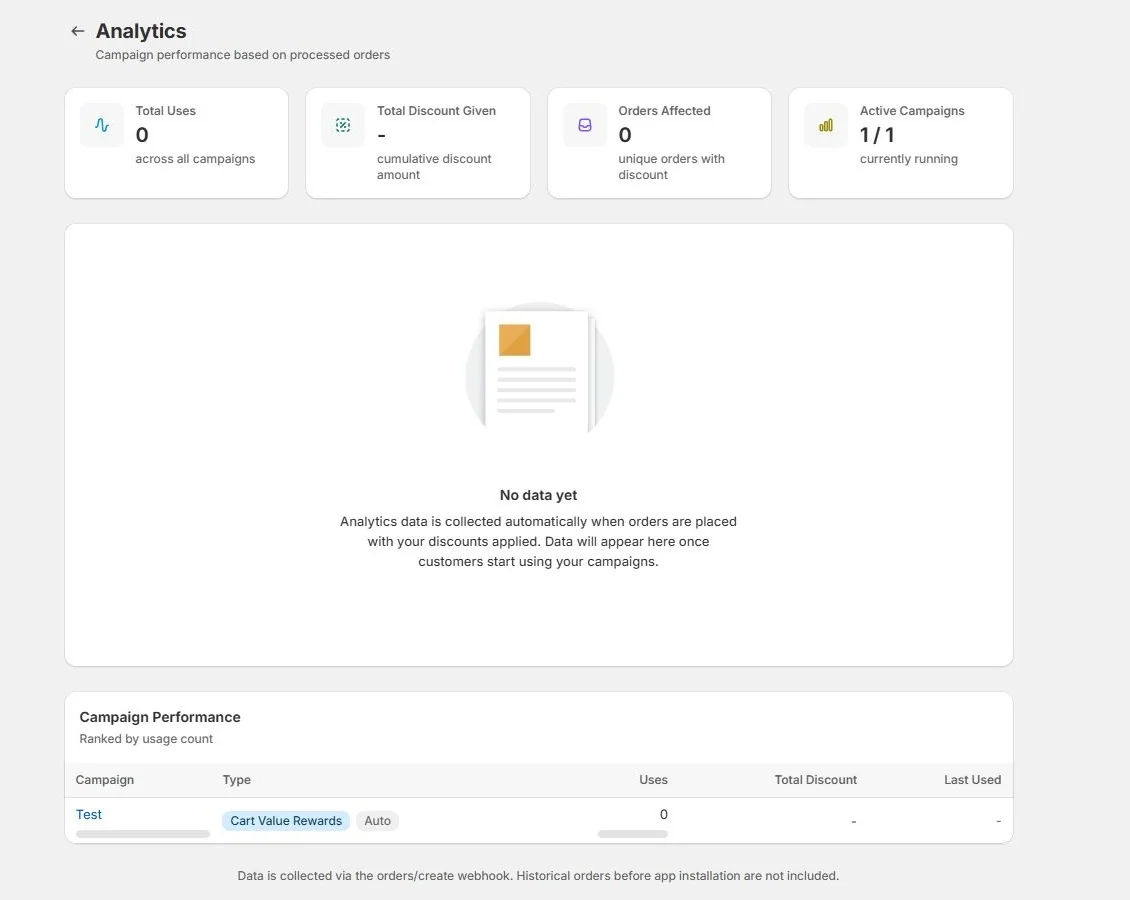
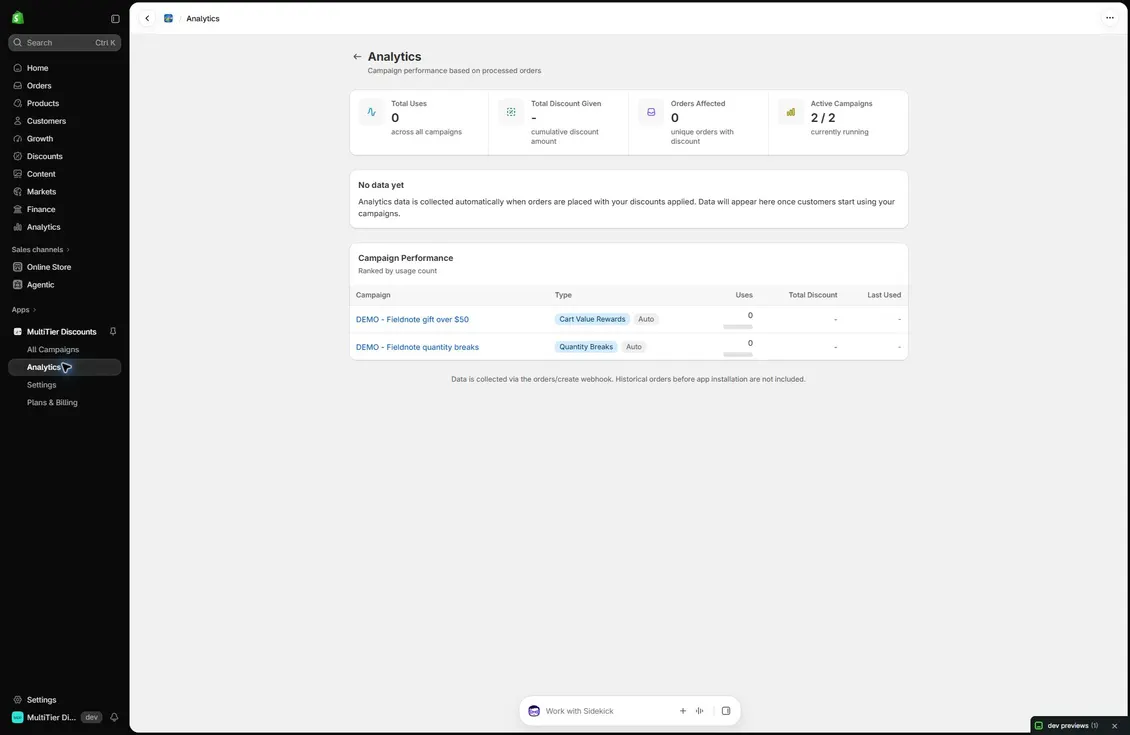
Publish MTD video guide and refreshed product evidence

diff --git a/app/content/site.ts b/app/content/site.ts
@@ -21,6 +21,16 @@ export const siteConfig = {
   ],
 } as const;
 
+export const mtdEducation = {
+  guideUrl: "https://multi-tier-discounts.barisarslan.com.tr/user-guide.html",
+  tutorialCount: 13,
+  tutorials: [
+    { title: "Create your first offer", anchor: "tutorial-01", duration: "3:36" },
+    { title: "Set quantity breaks", anchor: "tutorial-02", duration: "3:39" },
+    { title: "Require a complete product set", anchor: "tutorial-08", duration: "1:50" },
+  ],
+} as const;
+
 export type Plan = {
   name: string;
   price: string;
@@ -83,11 +93,11 @@ export const products: Record<Product["slug"], Product> = {
     accent: "coral",
     eyebrow: "Shopify tiered promotions",
     headline:
-      "Create Shopify tiered discounts and quantity-break campaigns without setup sprawl.",
+      "Shopify discounts for quantity breaks, product sets and gifts.",
     definition:
       "MultiTier Discounts is a Shopify embedded app for tiered, quantity-break, cart-value, Buy X Get Y, and gift promotions with Shopify Functions-based checkout logic.",
     summary:
-      "Build buy-more-save-more, quantity-break, cart-value, Buy X Get Y, and gift campaigns with precise targeting, storefront guidance, and checkout logic that stays in Shopify.",
+      "Give the second and third eligible items different discounts, reward a complete set, or unlock a gift at a spending threshold. Choose who qualifies and test the result in Shopify checkout. Features vary by plan.",
     availabilityStatus: "live",
     installUrl: "https://apps.shopify.com/multitier-discounts",
     primaryAction: "Install from Shopify",
@@ -137,9 +147,9 @@ export const products: Record<Product["slug"], Product> = {
     ],
     capabilities: [
       {
-        title: "Plan offers around the cart you actually want",
+        title: "Discount the second and third items differently",
         copy:
-          "Progressive percentage or fixed-amount tiers can respond to quantity, product mix, cart value, and other supported conditions.",
+          "Configure separate price-position rewards, such as 30% off the second eligible item and 40% off the third. Choose the sorting rule; this is different from applying one quantity-break rate to a qualifying cart line.",
       },
       {
         title: "Make eligibility legible to shoppers",
@@ -188,7 +198,7 @@ export const products: Record<Product["slug"], Product> = {
           "Buy X Get Y and cart-value rewards",
           "Exact variant and tag targeting",
           "Percentage and fixed-amount discounts",
-          "Shipping tiers, code campaigns, and analytics",
+          "Shipping rewards, code campaigns, and analytics",
         ],
       },
       {
@@ -229,6 +239,16 @@ export const products: Record<Product["slug"], Product> = {
     pricingNote:
       "The public Shopify App Store listing shows Free, Starter, Pro, and Plus. Plus is available only to eligible Shopify Plus stores and is presented separately here from the three standard plans.",
     faq: [
+      {
+        question: "Are quantity breaks the same as second-item discounts?",
+        answer:
+          "No. MTD Quantity Breaks evaluate the quantity on each cart line and use its highest matching tier. Price-position rules assign separate rewards to positions such as the second and third eligible unit. Sorting and per-line discounted quantity limits affect the result; test repeated units and split lines before launch.",
+      },
+      {
+        question: "Is there a setup guide with video tutorials?",
+        answer:
+          "Yes. The English merchant guide includes written steps, real demo screenshots, and 13 optional video tutorials: https://multi-tier-discounts.barisarslan.com.tr/user-guide.html. Follow the first-offer guide, then test your own theme, eligible cart, and checkout. Demo examples do not guarantee a result for every store.",
+      },
       {
         question: "Does MultiTier Discounts replace Shopify discounts?",
         answer:
@@ -272,11 +292,11 @@ export const products: Record<Product["slug"], Product> = {
         src: "/images/multitier-campaign-rules.jpg",
         webpSrcSet: "/images/multitier-campaign-rules-480.webp 480w, /images/multitier-campaign-rules-800.webp 800w, /images/multitier-campaign-rules-1130.webp 1130w",
         alt:
-          "MultiTier Discounts campaign builder showing the discount rules step",
+          "MultiTier Discounts Offer step in the illustrated merchant guide",
         caption:
-          "The current campaign builder keeps trigger and rule decisions in a four-step workflow.",
-        width: 1130,
-        height: 930,
+          "The merchant guide's Offer screen: start the campaign, then configure Conditions, Rewards, and Review & launch. Synthetic demo data.",
+        width: 1919,
+        height: 1248,
       },
       {
         src: "/images/multitier-analytics.jpg",
@@ -284,9 +304,9 @@ export const products: Record<Product["slug"], Product> = {
         alt:
           "MultiTier Discounts analytics dashboard showing campaign usage metrics",
         caption:
-          "Analytics are based on processed orders and do not include historical orders from before installation.",
-        width: 1130,
-        height: 900,
+          "The merchant guide's Analytics screen uses synthetic demo campaigns. No processed orders are shown; this is not a merchant revenue claim.",
+        width: 1919,
+        height: 1248,
       },
     ],
   },

diff --git a/app/resources/shopify-quantity-breaks-guide/page.tsx b/app/resources/shopify-quantity-breaks-guide/page.tsx
@@ -1,6 +1,6 @@
 import { ArticleLayout } from "../../components/ArticleLayout";
 import { TrackedLink } from "../../components/TrackedLink";
-import { products } from "../../content/site";
+import { mtdEducation, products } from "../../content/site";
 import { pageMetadata } from "../../lib/metadata";
 
 const title = "Shopify quantity breaks: a practical planning guide";
@@ -22,8 +22,8 @@ export default function QuantityBreaksGuidePage() {
       description={description}
       category="Promotion operations"
       readingTime="9 min read"
-      reviewed="27 July 2026"
-      reviewedIso="2026-07-27"
+      reviewed="2 November 2026"
+      reviewedIso="2026-11-02"
       path="/resources/shopify-quantity-breaks-guide"
       takeaways={[
         "Start with the shopper decision, then choose the tier mechanic.",
@@ -40,6 +40,29 @@ export default function QuantityBreaksGuidePage() {
         checkout applies the same rule the storefront promised. The campaign
         design therefore has three linked parts: economics, eligibility, and
         communication.
+      </p>
+
+      <h2>In MTD, choose quantity breaks or price positions</h2>
+      <p>
+        MTD Quantity Breaks evaluate each cart line separately. Two units on
+        one line can qualify for a two-unit tier; one unit of each of two
+        different products does not create a two-unit line. Split lines can
+        matter even when the variant is the same.
+      </p>
+      <p>
+        For different rewards on the second and third eligible units, configure
+        price-position rules instead. For example, with eligible unit prices
+        of $30, $20, and $10, High to Low sorting and separate 30% and 40%
+        rewards give $6 and $4 off: $50 before tax and shipping. This is an
+        illustrative calculation, not a customer result. Check sorting,
+        repeated units, and per-line discounted quantity limits in checkout.
+      </p>
+      <p>
+        <a href={`${mtdEducation.guideUrl}#quantity-breaks`}>
+          Follow the illustrated quantity-break and price-position setup
+        </a>. The merchant guide includes {mtdEducation.tutorialCount} optional English tutorials;
+        the quantity-break video covers per-line minimum quantities, not
+        second/third-position rewards.
       </p>
 
       <h2>Begin with the buying behaviour, not the discount percentage</h2>

diff --git a/app/components/ProductPage.tsx b/app/components/ProductPage.tsx
@@ -1,6 +1,6 @@
 import Image from "next/image";
 import Link from "next/link";
-import type { Product } from "../content/site";
+import { mtdEducation, type Product } from "../content/site";
 import {
   absoluteUrl,
   organizationId,
@@ -153,6 +153,11 @@ export function ProductPage({ product }: { product: Product }) {
                   )}
                 </div>
                 <p className="availability-note">{product.availability}</p>
+                {product.slug === "multitier-discounts" && (
+                  <a className="text-link" href={`${mtdEducation.guideUrl}#quick-start`}>
+                    Read the setup guide and {mtdEducation.tutorialCount} English tutorials
+                  </a>
+                )}
               </div>
               <ProductWorkflowVisual product={product} />
             </div>
@@ -238,6 +243,33 @@ export function ProductPage({ product }: { product: Product }) {
             </div>
           </div>
         </section>
+
+        {product.slug === "multitier-discounts" && (
+          <section className="section section-soft" id="setup-guide" aria-labelledby="mtd-setup-heading">
+            <div className="container related-resource">
+              <div>
+                <h2 id="mtd-setup-heading">Set up your first offer</h2>
+                <p>
+                  Use the written merchant guide or open one of its {mtdEducation.tutorialCount} English
+                  video tutorials when you need it. Examples use a demo store;
+                  test your own products, theme, and checkout before launch.
+                </p>
+                <ul className="plain-list">
+                  {mtdEducation.tutorials.map((tutorial) => (
+                    <li key={tutorial.anchor}>
+                      <a href={`${mtdEducation.guideUrl}#${tutorial.anchor}`}>
+                        {tutorial.title} ({tutorial.duration})
+                      </a>
+                    </li>
+                  ))}
+                </ul>
+              </div>
+              <a className="button button-secondary" href={mtdEducation.guideUrl}>
+                Open the merchant guide
+              </a>
+            </div>
+          </section>
+        )}
 
         {product.screenshots && (
           <section className="section section-soft">

diff --git a/app/resources/page.tsx b/app/resources/page.tsx
@@ -1,5 +1,5 @@
 import Link from "next/link";
-import { resources } from "../content/site";
+import { mtdEducation, resources } from "../content/site";
 import { pageMetadata } from "../lib/metadata";
 
 export const metadata = pageMetadata(
@@ -20,6 +20,24 @@ export default function ResourcesPage() {
             and B2B quote operations. Clear enough to use, specific enough to
             challenge your current process.
           </p>
+        </div>
+      </section>
+
+      <section className="section">
+        <div className="container">
+          <div className="related-resource">
+            <div>
+              <h2>Set up MultiTier Discounts</h2>
+              <p>
+                Follow the illustrated English merchant guide, with {mtdEducation.tutorialCount} optional
+                video tutorials covering first setup, quantity breaks, gifts,
+                product sets, and checkout checks.
+              </p>
+            </div>
+            <a className="button button-secondary" href={mtdEducation.guideUrl}>
+              Open the setup guide
+            </a>
+          </div>
         </div>
       </section>
 

diff --git a/PRODUCT.md b/PRODUCT.md
@@ -2,8 +2,8 @@
 
 <!-- impeccable:product-schema 1 -->
 
-**Document version:** v1
-**Last updated:** 2026-07-29
+**Document version:** v2
+**Last updated:** 2026-11-02
 
 ## Platform
 
@@ -41,6 +41,8 @@ MerchantCanvas builds focused Shopify apps around clearly bounded merchant workf
 - MultiTier Discounts has approved real screenshots.
 - B2B Quote Approvals currently has no approved public screenshots; the site must not fabricate them.
 - MultiTier Discounts is live at `https://apps.shopify.com/multitier-discounts`.
+- The public English setup guide is `https://multi-tier-discounts.barisarslan.com.tr/user-guide.html`, with 13 on-demand narrated tutorials. It is reachable without Shopify sign-in and retains its design-preview/demo-example labels; do not present screenshots as proof for every production store.
+- MTD Quantity Breaks evaluate each cart line separately. Price-position rules can assign different rewards to the second and third eligible units; sorting and per-line discounted quantity limits must be tested. Do not describe mixed single-unit lines as one quantity-break line.
 - B2B Quote Approvals is coming soon and has no public install URL.
 - MultiTier Discounts exposes Free, Starter, and Pro as standard plans. Its $24.99/month or $249.90/year Plus plan is available only to verified Shopify Plus stores and includes a 14-day free trial.
 - The website is a statically exported, multi-route web experience prepared for Cloudflare Pages.
@@ -89,4 +91,5 @@ MerchantCanvas builds focused Shopify apps around clearly bounded merchant workf
 
 ## Changelog
 
+- v2 (2026-11-02) — Added the publicly verified video setup guide, distinguished per-line quantity breaks from price-position rewards, and refreshed product evidence from the illustrated guide. Pricing and B2B coming-soon status are unchanged.
 - v1 (2026-07-29) — Established MTD as the live primary product, verified its App Store URL and conditional Plus plan, and classified B2B Quote Approvals as coming soon.
